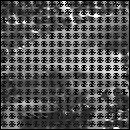
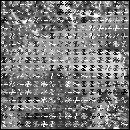
fix HOG

diff --git a/Question_61_70/myanswers/myans68.py b/Question_61_70/myanswers/myans68.py
@@ -13,7 +13,8 @@ def HOG(gray):
 
         gray = np.pad(gray, (1, 1), 'edge')
         gx = gray[1:Ver+1, 2:] - gray[1:Ver+1, :Hor]
-        gy = gray[2:, 1:Hor+1] - gray[:Ver, 1:Hor+1]
+        gy = gray[:Ver, 1:Hor+1] - gray[2:, 1:Hor+1]
+        #gy = gray[2:, 1:Hor+1] - gray[:Ver, 1:Hor+1]
         # keep from zero-dividing
         gx[gx == 0] = 1e-6
 
@@ -24,7 +25,7 @@ def HOG(gray):
         ang = np.arctan(gy / gx)
 
         # arctanは返り値(-2/pi, 2/pi)なので，負の値はpi回転
-        ang[ang < 0] += np.pi
+        ang[ang < 0] = np.pi + ang[ang < 0]
 
         return mag, ang
 
@@ -36,7 +37,7 @@ def HOG(gray):
             low = (np.pi * i) / 9
             high = (np.pi * (i + 1)) / 9
 
-            quantized_ang[np.where((ang >= low) & (ang < high))] = i + 1
+            quantized_ang[np.where((ang >= low) & (ang < high))] = i
 
         return quantized_ang
 
@@ -45,24 +46,30 @@ def HOG(gray):
 
         CELL_H = Hor // sell
         CELL_V = Ver // sell
+        N = sell
         hist = np.zeros((CELL_V, CELL_H, 9), dtype=np.float32)
-
+        for y in range(CELL_V):
+            for x in range(CELL_H):
+                for j in range(N):
+                    for i in range(N):
+                        hist[y, x, ang[y * N + j, x * N + i]] += mag[y * N + j, x * N + i]
+        
+        '''
         for x in range(Hor):
             hx = x // sell
             for y in range(Ver):
                 hy = y // sell
 
                 hist[hy, hx, ang[y, x]-1] += mag[y, x]
-
+        '''
         return hist
 
     def QuantizationHistogram(histogram, epsilon=1):
         Ver, Hor, Index = histogram.shape
 
-
         for x in range(Hor):
             for y in range(Ver):
-                histogram[y, x] = histogram[y, x] / np.sqrt(np.sum(histogram[max(y-1, 0) : min(y+2, Ver), max(x-1, 0) : min(x+2, Hor)]) + epsilon)
+                histogram[y, x] = histogram[y, x] / np.sqrt(np.sum(histogram[max(y-1, 0) : min(y+2, Ver), max(x-1, 0) : min(x+2, Hor)] ** 2) + epsilon)
 
         return hist
 
@@ -96,7 +103,8 @@ def DrawHOG(hist, gray, sell=8):
             y1 = iy
             y2 = iy
 
-            h = histogram[y, x] / np.sum(histogram)
+            h = histogram[y, x] / np.sum(histogram[y, x])
+            h /= h.max()
 
             for ind in range(Index):
                 angle = (ind * 20 + 10) / 180 * np.pi
@@ -106,12 +114,11 @@ def DrawHOG(hist, gray, sell=8):
                 ly = int(np.cos(angle) * (x2 - ix) - np.cos(angle) * (y2 - iy) + iy)
 
                 # color is HOG value
-                c = int(255. * h[..., ind])
+                c = int(255. * h[ind])
 
                 # draw line
                 cv2.line(gray, (lx, ly), (rx, ry), c, thickness=1)
     return gray
-
 
 img = cv2.imread("../imori.jpg").astype(np.float)
 gray = BGRtoGRAY(img)
@@ -119,6 +126,7 @@ gray = BGRtoGRAY(img)
 histogram = HOG(gray)
 
 result = DrawHOG(histogram, gray)
+result = result.astype(np.uint8)
 
 cv2.imwrite("myans_69.jpg", result)
 cv2.imshow("result", result)

diff --git a/Question_61_70/myanswers/myans66.py b/Question_61_70/myanswers/myans66.py
@@ -12,7 +12,7 @@ def HOG(gray):
 
         gray = np.pad(gray, (1, 1), 'edge')
         gx = gray[1:Ver+1, 2:] - gray[1:Ver+1, :Hor]
-        gy = gray[2:, 1:Hor+1] - gray[:Ver, 1:Hor+1]
+        gy = gray[:Ver, 1:Hor+1] - gray[2:, 1:Hor+1]
         # keep from zero-dividing
         gx[gx == 0] = 1e-6
 
